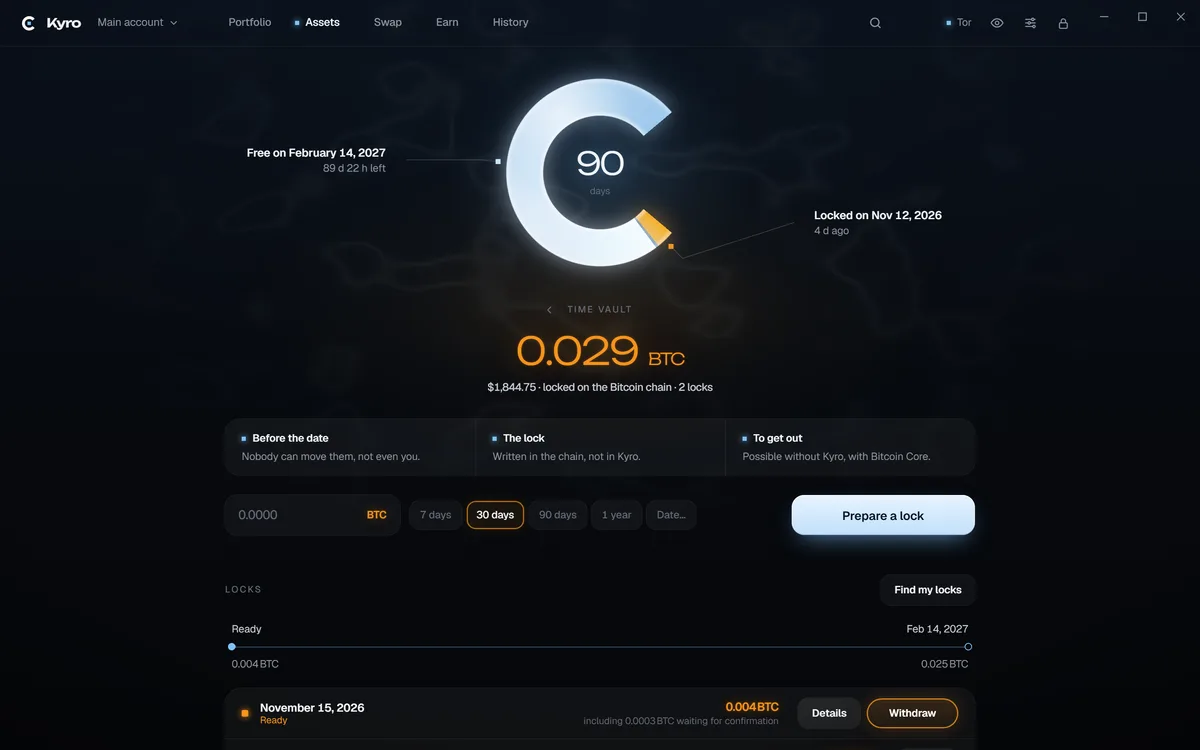
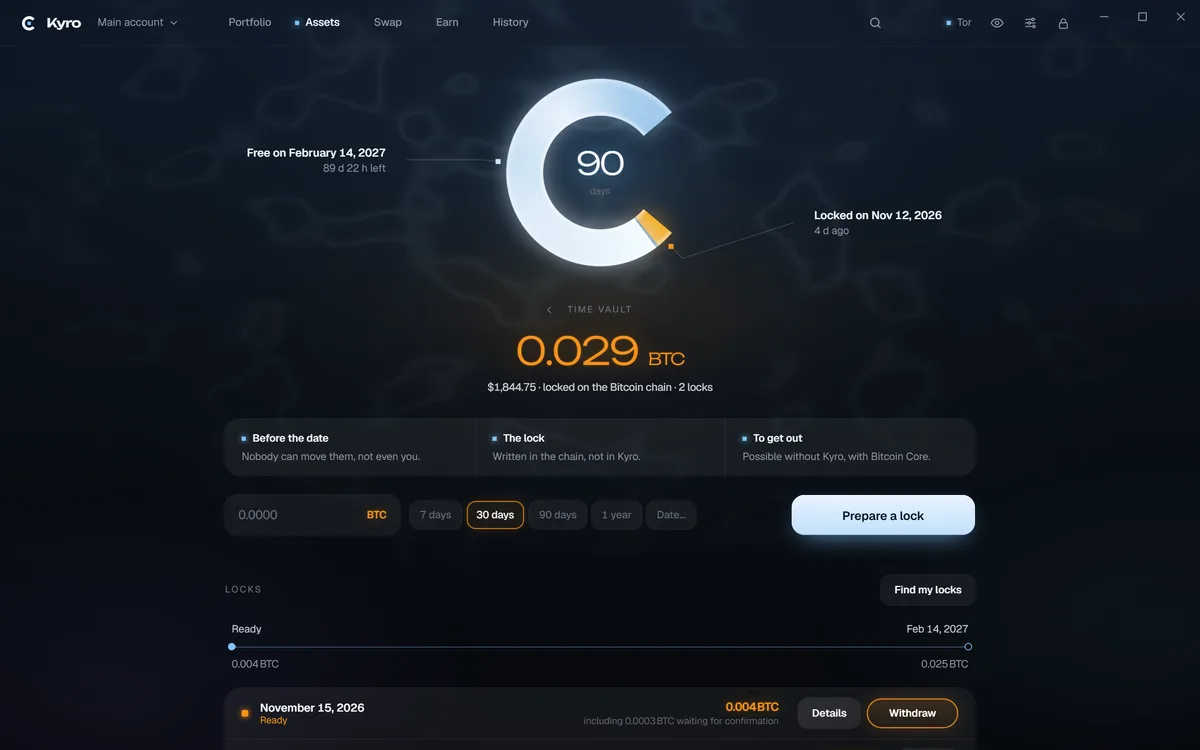
docs, site: screenshots of the 1.1.1 look
README hero and grid, site hero (desktop, 1200 px, phone 9:10) and share image recaptured from the app in demo mode with the brighter 1.1.1 background. Phone Swap uses the desktop capture's body (BTC to ETH) under the app's own 760 px header.

diff --git a/website/public/changelog/index.html b/website/public/changelog/index.html
@@ -3,8 +3,8 @@
 <head>
   <meta charset="utf-8">
   <meta name="viewport" content="width=device-width, initial-scale=1">
-  <title>Changelog: every Kyro release up to 1.1.0 | Kyro Wallet</title>
-  <meta name="description" content="What changed in each version of Kyro Wallet, from 1.0.0 to 1.1.0. Generated from the CHANGELOG.md file in the repository.">
+  <title>Changelog: every Kyro release up to 1.1.1 | Kyro Wallet</title>
+  <meta name="description" content="What changed in each version of Kyro Wallet, from 1.0.0 to 1.1.1. Generated from the CHANGELOG.md file in the repository.">
   <link rel="canonical" href="https://kyrowallet.com/changelog/">
   <meta name="color-scheme" content="dark">
   <meta name="theme-color" content="#000000">
@@ -17,8 +17,8 @@
   <link rel="stylesheet" href="/site.css">
   <meta property="og:site_name" content="Kyro Wallet">
   <meta property="og:type" content="website">
-  <meta property="og:title" content="Changelog: every Kyro release up to 1.1.0 | Kyro Wallet">
-  <meta property="og:description" content="What changed in each version of Kyro Wallet, from 1.0.0 to 1.1.0. Generated from the CHANGELOG.md file in the repository.">
+  <meta property="og:title" content="Changelog: every Kyro release up to 1.1.1 | Kyro Wallet">
+  <meta property="og:description" content="What changed in each version of Kyro Wallet, from 1.0.0 to 1.1.1. Generated from the CHANGELOG.md file in the repository.">
   <meta property="og:url" content="https://kyrowallet.com/changelog/">
   <meta property="og:image" content="https://kyrowallet.com/img/og.jpg?v=2">
   <meta property="og:image:width" content="1200">
@@ -26,10 +26,10 @@
   <meta property="og:image:alt" content="Kyro Wallet: Your keys. Your crypto. The portfolio window on blue satin.">
   <meta property="og:locale" content="en_US">
   <meta name="twitter:card" content="summary_large_image">
-  <meta name="twitter:title" content="Changelog: every Kyro release up to 1.1.0 | Kyro Wallet">
-  <meta name="twitter:description" content="What changed in each version of Kyro Wallet, from 1.0.0 to 1.1.0. Generated from the CHANGELOG.md file in the repository.">
+  <meta name="twitter:title" content="Changelog: every Kyro release up to 1.1.1 | Kyro Wallet">
+  <meta name="twitter:description" content="What changed in each version of Kyro Wallet, from 1.0.0 to 1.1.1. Generated from the CHANGELOG.md file in the repository.">
   <meta name="twitter:image" content="https://kyrowallet.com/img/og.jpg?v=2">
-  <script type="application/ld+json">{"@context":"https://schema.org","@graph":[{"@type":"WebPage","@id":"https://kyrowallet.com/changelog/#page","url":"https://kyrowallet.com/changelog/","name":"Kyro changelog","description":"What changed in each version of Kyro Wallet, from 1.0.0 to 1.1.0. Generated from the CHANGELOG.md file in the repository.","isPartOf":{"@id":"https://kyrowallet.com/#website"},"about":{"@id":"https://kyrowallet.com/#app"},"inLanguage":"en"},{"@type":"BreadcrumbList","itemListElement":[{"@type":"ListItem","position":1,"name":"Home","item":"https://kyrowallet.com/"},{"@type":"ListItem","position":2,"name":"Changelog","item":"https://kyrowallet.com/changelog/"}]}]}</script>
+  <script type="application/ld+json">{"@context":"https://schema.org","@graph":[{"@type":"WebPage","@id":"https://kyrowallet.com/changelog/#page","url":"https://kyrowallet.com/changelog/","name":"Kyro changelog","description":"What changed in each version of Kyro Wallet, from 1.0.0 to 1.1.1. Generated from the CHANGELOG.md file in the repository.","isPartOf":{"@id":"https://kyrowallet.com/#website"},"about":{"@id":"https://kyrowallet.com/#app"},"inLanguage":"en"},{"@type":"BreadcrumbList","itemListElement":[{"@type":"ListItem","position":1,"name":"Home","item":"https://kyrowallet.com/"},{"@type":"ListItem","position":2,"name":"Changelog","item":"https://kyrowallet.com/changelog/"}]}]}</script>
   <script>(function () {var m = window.matchMedia;document.documentElement.classList.add('ui');if (m && !m('(prefers-reduced-motion: reduce)').matches && 'IntersectionObserver' in window) document.documentElement.classList.add('js');})();</script>
   <script src="/motion.js" defer></script>
   <script src="/silk.js" defer></script>
@@ -96,8 +96,12 @@
       <div class="wrap">
         <div class="prose" data-reveal>
           
+          <section class="log-entry" id="v1-1-1" aria-label="Version 1.1.1">
+            <h2>1.1.1<span class="latest">Latest</span></h2>
+            <ul><li>Moving between sections: the next screen rises out of a soft blur, and the ice square in the header glides to the section you open.</li><li>Brighter: the ice light behind every screen is stronger, a faint violet and ice light adds depth low on the screen, the ice veins drift very slowly, and cards are a little lighter.</li><li>Assets: an asset you don&#39;t hold keeps its colour instead of turning grey, so a new wallet is no longer a grey page. On hover a tile lifts and its rim lights up in the coin&#39;s colour.</li><li>Charts (Portfolio, asset pages, Earn calculator): under the pointer the curve is lit up to that point, and the point glides along the curve with the pointer (no more jumping from one data point to the next), its label in the curve&#39;s colour.</li></ul>
+          </section>
           <section class="log-entry" id="v1-1-0" aria-label="Version 1.1.0">
-            <h2>1.1.0<span class="latest">Latest</span></h2>
+            <h2>1.1.0</h2>
             <ul><li>New look: every screen is redrawn. Each coin has its ring and its own light, one header bar replaces the side rail and the status bar, figures use the Unbounded face, and the main button is tinted ice. Everything is in English and French.</li><li>Signing window: Kyro now draws its own native window to confirm a transaction. It shows what Kyro read in the transaction, the amount in the coin&#39;s colour, the recipient in blocks, then Cancel and Sign. Sign becomes active after a short moment. If the window can&#39;t open, the system dialog is used as before. The recovery phrase window has the same look.</li><li>Bitcoin time lock: lock bitcoins until a day you choose. The Bitcoin network refuses to spend them before that date, even with the phrase. A timeline shows when each lock opens, withdrawal works after that date, and a scan finds your locks again after a restore. Nobody can cancel a lock once it is confirmed. How to withdraw with Bitcoin Core alone: docs/BTC_TIMELOCK.md.</li><li>Second password (Settings › Security, off by default): typed on the normal unlock screen, it opens a separate wallet with its own phrase and a small balance, for when someone forces you to open Kyro.</li><li>Daily spending limit (optional): above the amount you choose per 24 hours, a send waits 1 or 24 hours and then asks for the password. Raising or turning off the limit waits the same way.</li><li>Missing network fees: when a token send lacks the coin that pays the fee, Kyro offers to swap a little of another coin for it. Tidy turns small leftover balances into one coin.</li><li>Earn: rates load in the background, each option shows its risk level and your positions, and a calculator shows what an amount could earn with the best option of each risk level. Rates are estimates.</li><li>Private note on each transaction, in History, in the CSV export and in the backup.</li><li>Warning before a first send to an address you never used and that is not in your contacts.</li><li>Bitcoin amounts in BTC or in sats (Settings › Display).</li><li>Hide small balances: off, empty ones, under 1 or under 10 in your currency.</li><li>Send only to my contacts (optional). Turning it off and adding a contact ask for the password.</li><li>Charts: points are placed by their real time, so &quot;All&quot; is no longer squashed and the highest price and the tooltip show real prices.</li><li>Rebuilding a release: tools and steps to rebuild Kyro yourself and compare the binaries&#39; hashes, in docs/REPRODUCIBLE.md.</li></ul>
           </section>
           <section class="log-entry" id="v1-0-7" aria-label="Version 1.0.7">
